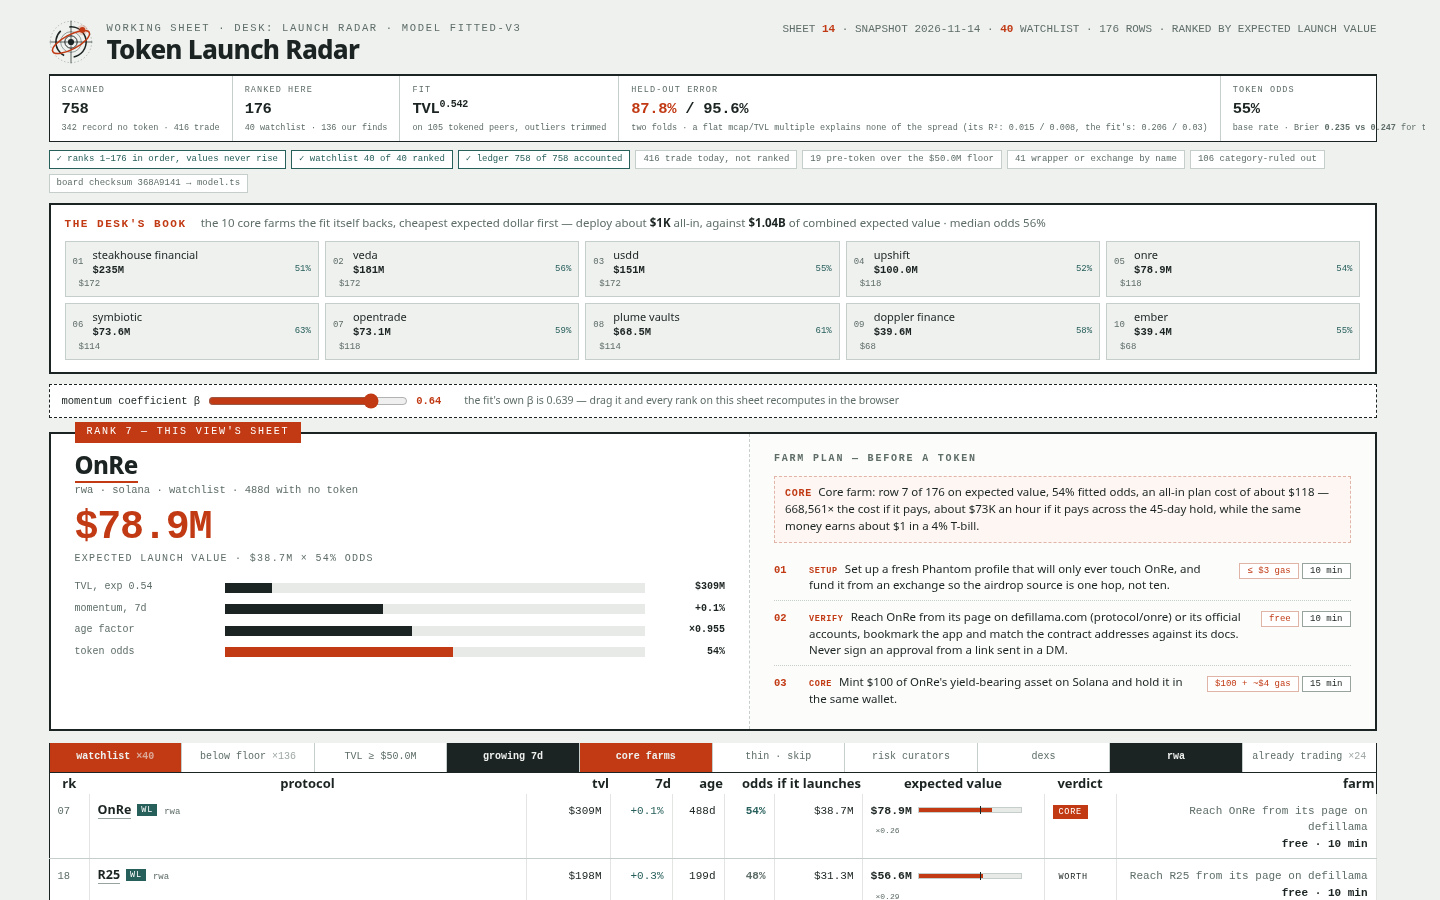
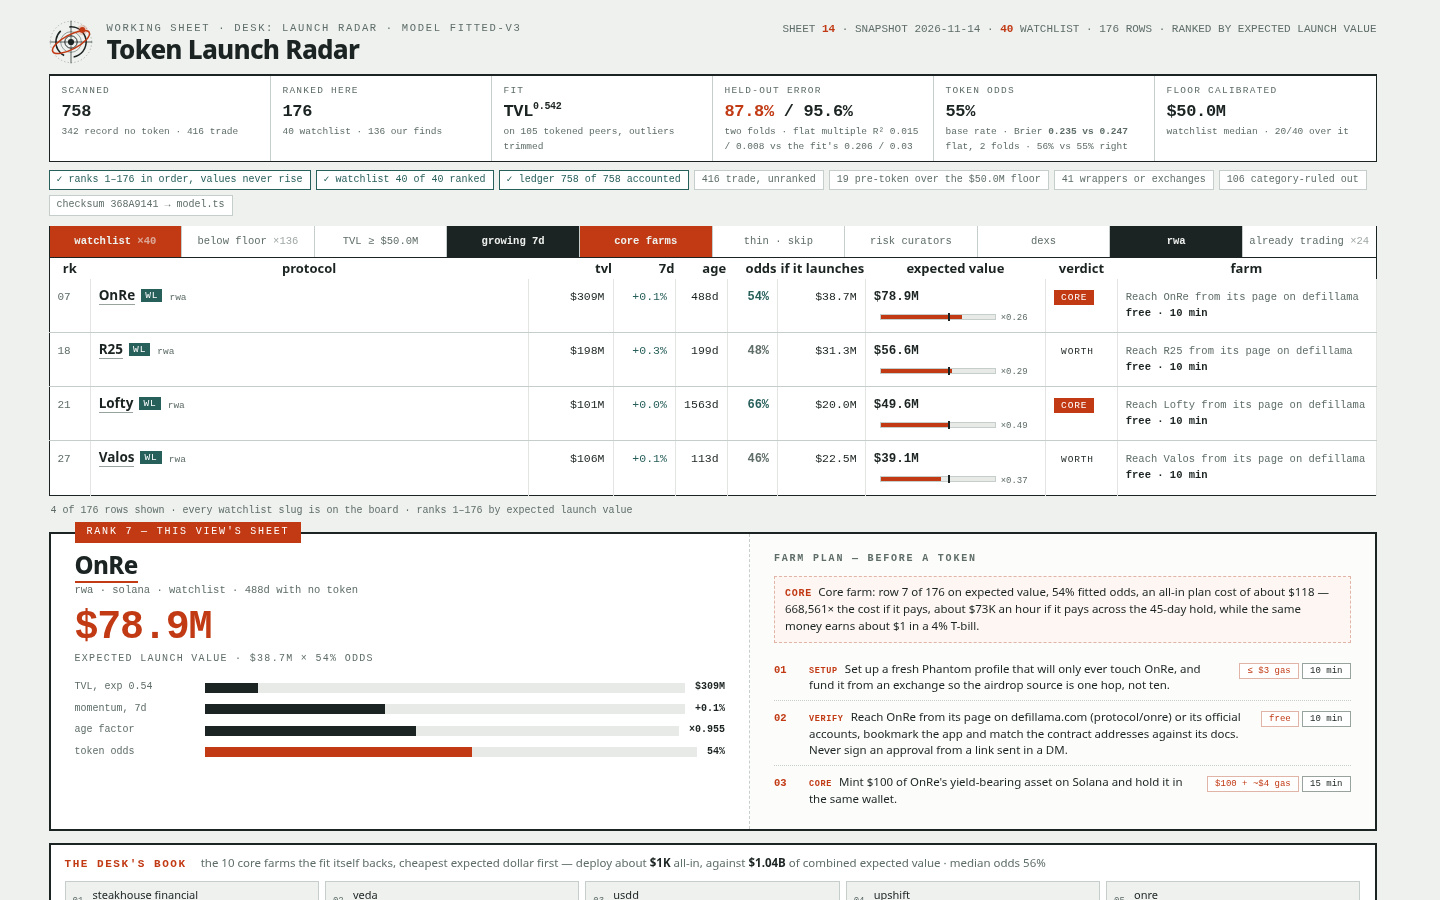
v7: the board table is the page's first sight — table above the book and lead card, no truncated KPI subtitles, a step up in type so rows read at a glance, farm column left-aligned

diff --git a/dashboard/app.css b/dashboard/app.css
@@ -28,10 +28,10 @@ h1{font-size:26px;font-weight:800;letter-spacing:-.03em;line-height:1.05}
 .kpi{padding:8px 12px 7px;border-right:1px solid var(--hair);min-width:0}
 .kpi .v,.kpi .s{overflow-wrap:break-word}
 .kpi:last-child{border-right:0}
-.kpi .l{font-family:var(--mono);font-size:8.5px;letter-spacing:.13em;text-transform:uppercase;color:var(--faint);white-space:nowrap}
-.kpi .v{font-family:var(--mono);font-size:15.5px;font-weight:750;letter-spacing:-.02em;margin-top:2px;white-space:nowrap}
+.kpi .l{font-family:var(--mono);font-size:9.5px;letter-spacing:.13em;text-transform:uppercase;color:var(--faint);white-space:nowrap}
+.kpi .v{font-family:var(--mono);font-size:17px;font-weight:750;letter-spacing:-.02em;margin-top:2px;white-space:nowrap}
 .kpi .v em{font-style:normal;color:var(--verm)}
-.kpi .s{font-family:var(--mono);font-size:8.5px;color:var(--faint);margin-top:1px;white-space:normal;line-height:1.5}
+.kpi .s{font-family:var(--mono);font-size:9.5px;color:var(--faint);margin-top:1px;white-space:normal;line-height:1.5}
 
 /* ---------- the lead card ---------- */
 .lead{display:grid;grid-template-columns:1.12fr 1fr;border:2px solid var(--ink);background:#fff;margin:14px 0 12px;position:relative}
@@ -63,7 +63,7 @@ h1{font-size:26px;font-weight:800;letter-spacing:-.03em;line-height:1.05}
 
 /* ---------- filters ---------- */
 .filters{display:grid;border:1px solid var(--ink);border-top:0;background:#fff}
-.filters button{font-family:var(--mono);font-size:10px;padding:7px 4px;text-align:center;border:0;border-right:1px solid var(--hair);color:var(--faint);background:transparent;white-space:nowrap;overflow:hidden;text-overflow:ellipsis}
+.filters button{font-family:var(--mono);font-size:10.5px;padding:8px 4px;text-align:center;border:0;border-right:1px solid var(--hair);color:var(--faint);background:transparent;white-space:nowrap;overflow:hidden;text-overflow:ellipsis}
 .filters button:last-child{border-right:0}
 .filters button[aria-pressed="true"]{background:var(--ink);color:var(--paper);font-weight:700}
 .filters button.hot[aria-pressed="true"]{background:var(--verm)}
@@ -71,41 +71,41 @@ h1{font-size:26px;font-weight:800;letter-spacing:-.03em;line-height:1.05}
 
 /* ---------- the board table ---------- */
 table{width:100%;border-collapse:collapse;table-layout:fixed;font-variant-numeric:tabular-nums;border:1px solid var(--ink);border-top:0;background:#fff}
-thead th{font-family:var(--mono);font-size:8.5px;letter-spacing:.12em;text-transform:uppercase;color:var(--ink);text-align:left;padding:7px 8px;border:1px solid var(--hair2);background:#E4E7E4;white-space:nowrap}
+thead th{font-family:var(--mono);font-size:9.5px;letter-spacing:.12em;text-transform:uppercase;color:var(--ink);text-align:left;padding:8px 8px;border:1px solid var(--hair2);background:#E4E7E4;white-space:nowrap}
 thead th.sortable{cursor:pointer}
 thead th .arr{color:var(--verm)}
 th.num,td.num{text-align:right}
-tbody td{padding:6px 8px;border-bottom:1px solid var(--hair);border-right:1px solid #E2E5E2;vertical-align:baseline;min-width:0;overflow:hidden}
+tbody td{padding:7px 8px;border-bottom:1px solid var(--hair);border-right:1px solid #E2E5E2;vertical-align:baseline;min-width:0;overflow:hidden}
 tbody tr:last-child td{border-bottom:0}
 tbody tr:hover td{background:#FBF7F4}
 tbody tr.off td{opacity:.55}
-.rk{font-family:var(--mono);font-size:10.5px;color:var(--faint);width:40px}
-.nm{font-weight:670;font-size:12.5px}
+.rk{font-family:var(--mono);font-size:11px;color:var(--faint);width:40px}
+.nm{font-weight:670;font-size:13.5px}
 .nm a{color:inherit;text-decoration:none;border-bottom:1px solid var(--hair2)}
 .nm a:hover,.nm a:focus{border-bottom-color:var(--verm);color:var(--verm)}
-.tg{font-family:var(--mono);font-size:8.5px;letter-spacing:.1em;padding:1px 4px;vertical-align:2px}
+.tg{font-family:var(--mono);font-size:9.5px;letter-spacing:.1em;padding:1px 4px;vertical-align:2px}
 .tg.wl{background:var(--teal);color:#fff}
 .tg.ex{color:var(--faint);border:1px solid var(--hair2)}
-.ct{display:inline;font-family:var(--mono);font-size:9px;color:var(--faint)}
+.ct{display:inline;font-family:var(--mono);font-size:9.5px;color:var(--faint)}
 tbody td .tg{margin-left:6px}
 tbody td .ct{margin-left:7px}
-td.num,.iv{font-family:var(--mono);font-size:11px}
-.odds{font-family:var(--mono);font-size:11px;font-weight:600}
+td.num,.iv{font-family:var(--mono);font-size:11.5px}
+.odds{font-family:var(--mono);font-size:12px;font-weight:600}
 .odds.hi{color:var(--teal)} .odds.lo{color:var(--faint)}
-.iv{font-weight:700;font-size:11.5px;white-space:nowrap}
+.iv{font-weight:700;font-size:12.5px;white-space:nowrap}
 .up{color:var(--teal)} .down{color:#A93A20}
-.track{display:inline-block;position:relative;width:104px;max-width:100%;height:6px;background:#E7EAE7;vertical-align:middle;margin-left:6px;border:1px solid var(--hair)}
+.track{display:inline-block;position:relative;width:116px;max-width:100%;height:6px;background:#E7EAE7;vertical-align:middle;margin-left:6px;border:1px solid var(--hair)}
 .fill{position:absolute;inset:0 auto 0 0;background:var(--verm)}
 .tick{position:absolute;top:-2px;bottom:-2px;width:1.5px;background:var(--ink);z-index:2}
-.mult{font-family:var(--mono);font-size:8px;color:var(--faint);margin-left:5px}
-.vd{font-family:var(--mono);font-size:8.5px;letter-spacing:.09em;padding:2px 6px;text-transform:uppercase;white-space:nowrap}
+.mult{font-family:var(--mono);font-size:9px;color:var(--faint);margin-left:5px}
+.vd{font-family:var(--mono);font-size:9.5px;letter-spacing:.09em;padding:2px 7px;text-transform:uppercase;white-space:nowrap}
 .dhead .nm .tg,.dhead .nm .vd{margin-left:9px;vertical-align:6px}
 .pos .vd{margin-left:5px;vertical-align:1px}
 .vd-core{background:var(--verm);color:#fff}
 .vd-worth{background:var(--teal);color:#fff}
 .vd-thin{color:var(--faint);border:1px solid var(--hair2)}
 .vd-skip{color:#A93A20;border:1px dashed #E0B4A6;background:#FDF6F3}
-.fm{font-family:var(--mono);font-size:9.5px;color:var(--faint);line-height:1.5}
+.fm{font-family:var(--mono);font-size:10.5px;color:var(--faint);line-height:1.5}
 .fm b{color:var(--ink);font-weight:600}
 .count{font-family:var(--mono);font-size:10px;color:var(--faint);padding:8px 2px 0}
 
@@ -146,7 +146,7 @@ td.num,.iv{font-family:var(--mono);font-size:11px}
 
 /* ---------- the audits ---------- */
 .audits{display:flex;flex-wrap:wrap;gap:5px;margin:8px 0 10px}
-.audits .au{font-family:var(--mono);font-size:9px;color:var(--faint);border:1px solid var(--hair);background:#fff;padding:2px 7px;white-space:nowrap}
+.audits .au{font-family:var(--mono);font-size:10px;color:var(--faint);border:1px solid var(--hair);background:#fff;padding:2px 7px;white-space:nowrap}
 .audits .au.ok{color:var(--teal);border-color:var(--teal)}
 .audits .au b{color:var(--teal)}
 .audits .au.bad{color:var(--verm);border-color:var(--verm)}

diff --git a/dashboard/app.js b/dashboard/app.js
@@ -150,13 +150,13 @@ function rowHtml(s) {
     <td class="num">${money(r.launch_value_usd)}</td>
     <td><span class="iv">${money(s.exp)}</span>${signal(s.exp)}<span class="mult">×${(s.exp / r.tvl_usd).toFixed(2)}</span></td>
     <td>${vdChip(s.label)}</td>
-    <td class="num fm">${farmCell(r)}</td>
+    <td class="fm">${farmCell(r)}</td>
   </tr>`;
 }
 
 const HEADS = [
   ['rk', 'rk'], ['protocol', 'protocol'], ['tvl', 'tvl', 'num'], ['7d', 'ch7', 'num'], ['age', 'age', 'num'],
-  ['odds', 'odds', 'num'], ['if it launches', 'launch', 'num'], ['expected value', 'implied'], ['verdict', null], ['farm', null, 'num'],
+  ['odds', 'odds', 'num'], ['if it launches', 'launch', 'num'], ['expected value', 'implied'], ['verdict', null], ['farm', null],
 ];
 
 /* ---------- the desk's book: the rows the fit itself backs, as one costed portfolio ---------- */
@@ -207,12 +207,12 @@ function boardHtml() {
     ? R.live.map((p, i) => `<tr><td class="rk">${String(i + 1).padStart(2, '0')}</td><td><span class="nm">${esc(p.name)}</span><span class="ct">${esc((p.category || '—').toLowerCase())}</span></td><td class="num">${money(p.mcap_usd)}</td><td class="num">${money(p.tvl_usd)}</td><td class="num">${dirPct(p.change_7d)}</td><td><span class="iv">×${p.mc_tvl.toFixed(2)}</span>${signal(p.mc_tvl * 1e9)}</td><td class="fm">trades today — the market's own value, never the model's</td></tr>`).join('')
     : rows.map(rowHtml).join('');
   return `
-  ${bookHtml(scored)}
-  ${stressHtml()}
-  ${leader && !live ? leadHtml(leader) : '<div class="lead" style="display:none"></div>'}
   <div class="filters" role="group" aria-label="filters" style="grid-template-columns:repeat(${FILTERS.length},1fr)">${filters}</div>
   <table aria-label="the board">${thead}<tbody>${body}</tbody></table>
-  <p class="count">${live ? `the fit's anchors — ${R.live_size} of the ${rep.counts.fit_kept} tokened records it was fitted on, largest first · the board itself ranks only the pre-token ${R.board_size}.` : `${rows.length} of ${R.board_size} rows shown · every watchlist slug is on the board · ranks 1–${R.board_size} by expected launch value`}</p>`;
+  <p class="count">${live ? `the fit's anchors — ${R.live_size} of the ${rep.counts.fit_kept} tokened records it was fitted on, largest first · the board itself ranks only the pre-token ${R.board_size}.` : `${rows.length} of ${R.board_size} rows shown · every watchlist slug is on the board · ranks 1–${R.board_size} by expected launch value`}</p>
+  ${leader && !live ? leadHtml(leader) : '<div class="lead" style="display:none"></div>'}
+  ${bookHtml(scored)}
+  ${stressHtml()}`;
 }
 
 function leadHtml(s) {
@@ -365,8 +365,8 @@ function kpisHtml() {
   <div class="kpi"><div class="l">scanned</div><div class="v">${k.scanned}</div><div class="s">${k.no_token} record no token · ${k.tokened} trade</div></div>
   <div class="kpi"><div class="l">ranked here</div><div class="v">${k.board}</div><div class="s">${R.watchlist_size} watchlist · ${k.early} our finds</div></div>
   <div class="kpi"><div class="l">fit</div><div class="v">TVL<sup style="font-size:10px">${f.b_tvl}</sup></div><div class="s">on ${f.n} tokened peers, outliers trimmed</div></div>
-  <div class="kpi"><div class="l">held-out error</div><div class="v"><em>${rep.folds[0].median_abs_err_pct}%</em> / ${rep.folds[1].median_abs_err_pct}%</div><div class="s">two folds · a flat mcap/TVL multiple explains none of the spread (its R²: ${rep.folds[0].baseline_log_r2} / ${rep.folds[1].baseline_log_r2}, the fit's: ${rep.folds[0].log_r2} / ${rep.folds[1].log_r2})</div></div>
-  <div class="kpi"><div class="l">token odds</div><div class="v">${Math.round(rep.odds.base_rate * 100)}%</div><div class="s">base rate · Brier <b>${brierMean} vs ${brierBaseMean}</b> for the base rate alone, 2 folds · called ${rightMean}% vs ${rightBaseMean}% right</div></div>
+  <div class="kpi"><div class="l">held-out error</div><div class="v"><em>${rep.folds[0].median_abs_err_pct}%</em> / ${rep.folds[1].median_abs_err_pct}%</div><div class="s">two folds · flat multiple R² ${rep.folds[0].baseline_log_r2} / ${rep.folds[1].baseline_log_r2} vs the fit's ${rep.folds[0].log_r2} / ${rep.folds[1].log_r2}</div></div>
+  <div class="kpi"><div class="l">token odds</div><div class="v">${Math.round(rep.odds.base_rate * 100)}%</div><div class="s">base rate · Brier <b>${brierMean} vs ${brierBaseMean}</b> flat, 2 folds · ${rightMean}% vs ${rightBaseMean}% right</div></div>
   <div class="kpi"><div class="l">floor calibrated</div><div class="v">${money(R.floor_usd).replace('$', '$')}</div><div class="s">watchlist median · ${cal.watchlist_above_floor}/${cal.watchlist_size} over it</div></div>`;
 }
 
@@ -389,11 +389,11 @@ function auditsHtml() {
   <span class="au ${check ? 'ok' : 'bad'}">${check ? '✓' : '✗'} ranks 1–${k.board} in order, values never rise</span>
   <span class="au ${wl === R.watchlist_size ? 'ok' : 'bad'}">${wl === R.watchlist_size ? '✓' : '✗'} watchlist ${wl} of ${R.watchlist_size} ranked</span>
   <span class="au ok">✓ ledger ${k.scanned} of ${k.scanned} accounted</span>
-  <span class="au">${k.tokened} trade today, not ranked</span>
+  <span class="au">${k.tokened} trade, unranked</span>
   <span class="au">${nr.over_floor} pre-token over the ${money(R.floor_usd)} floor</span>
-  <span class="au">${nr.derivative_or_exchange} wrapper or exchange by name</span>
+  <span class="au">${nr.derivative_or_exchange} wrappers or exchanges</span>
   <span class="au">${nr.banned_category} category-ruled out</span>
-  <span class="au">board checksum ${checksum} → model.ts</span>`;
+  <span class="au">checksum ${checksum} → model.ts</span>`;
 }
 
 /* ---------- the render ---------- */
